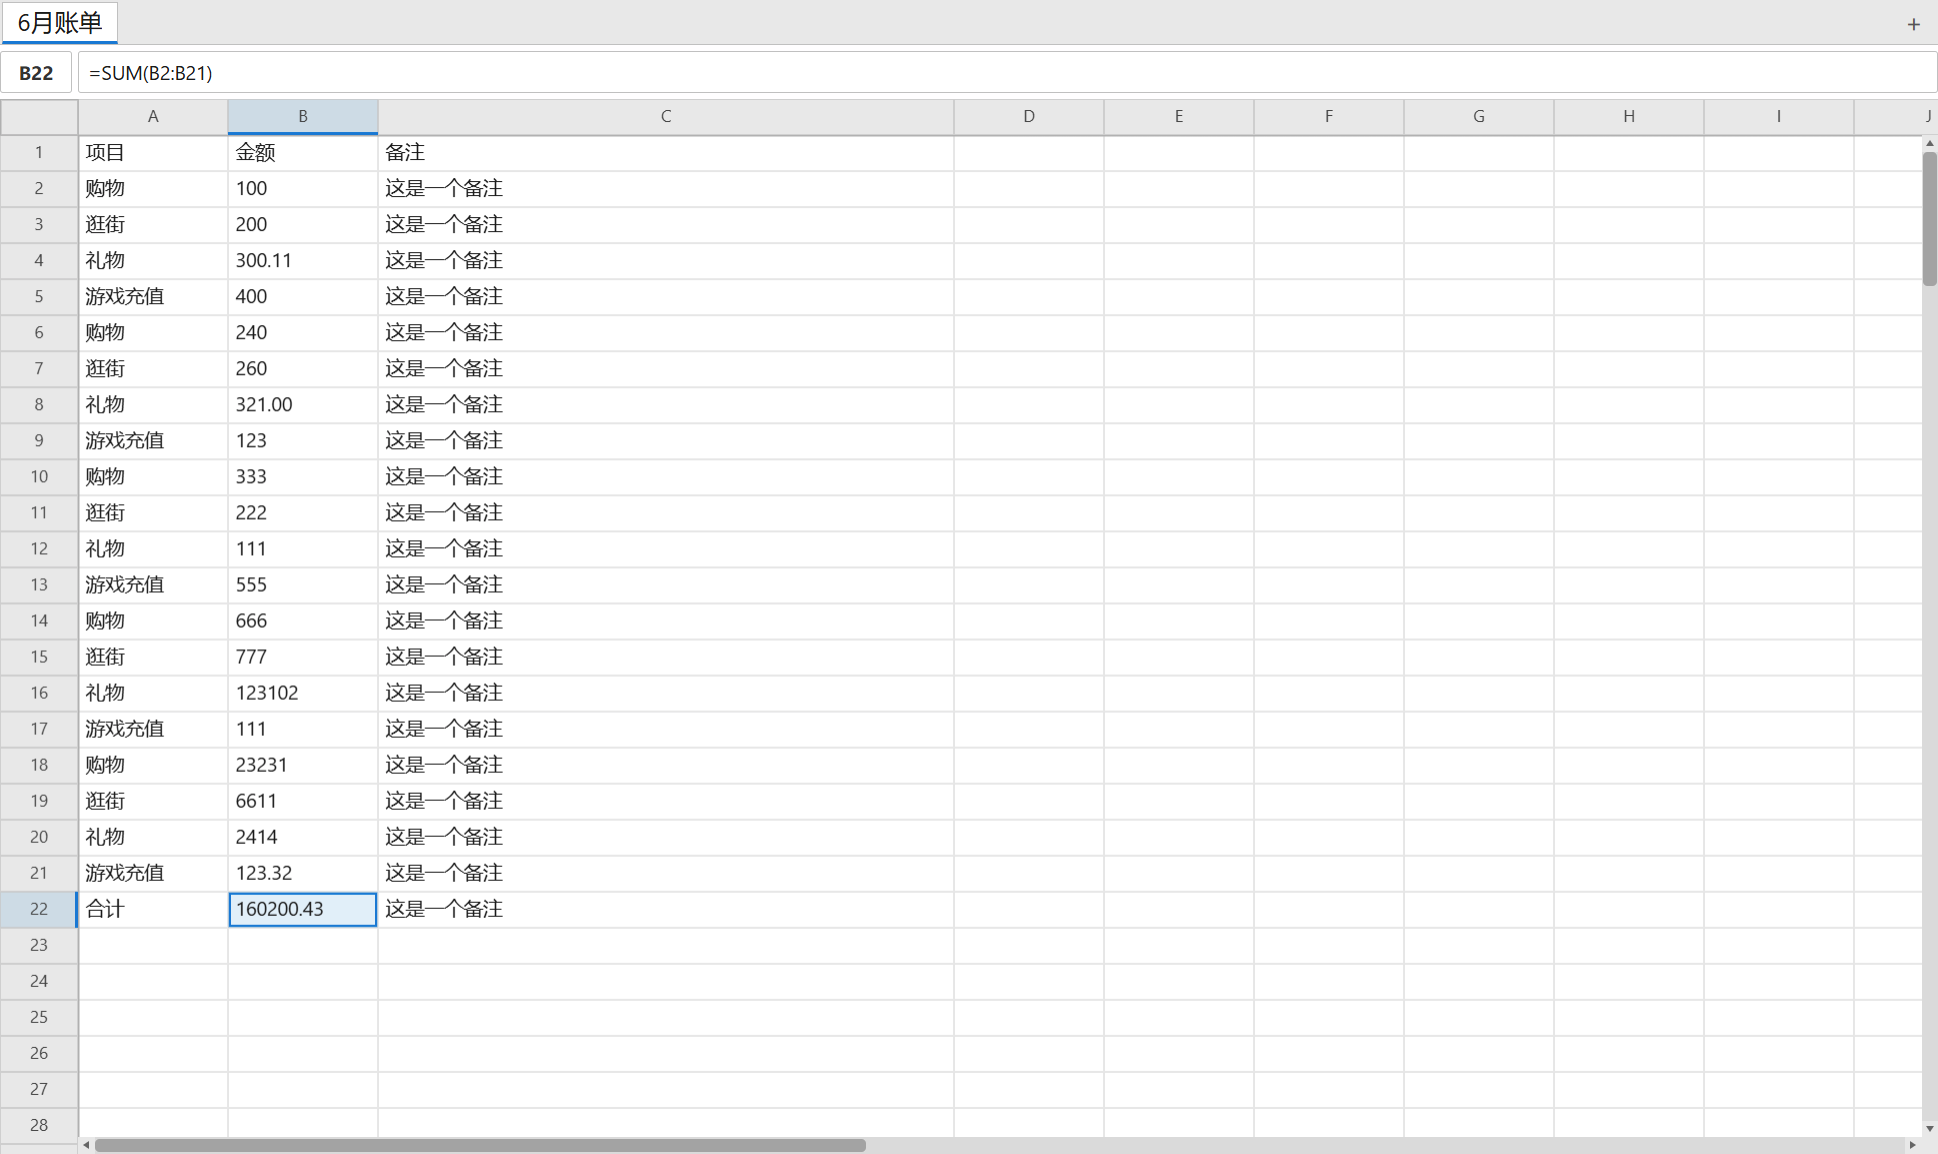
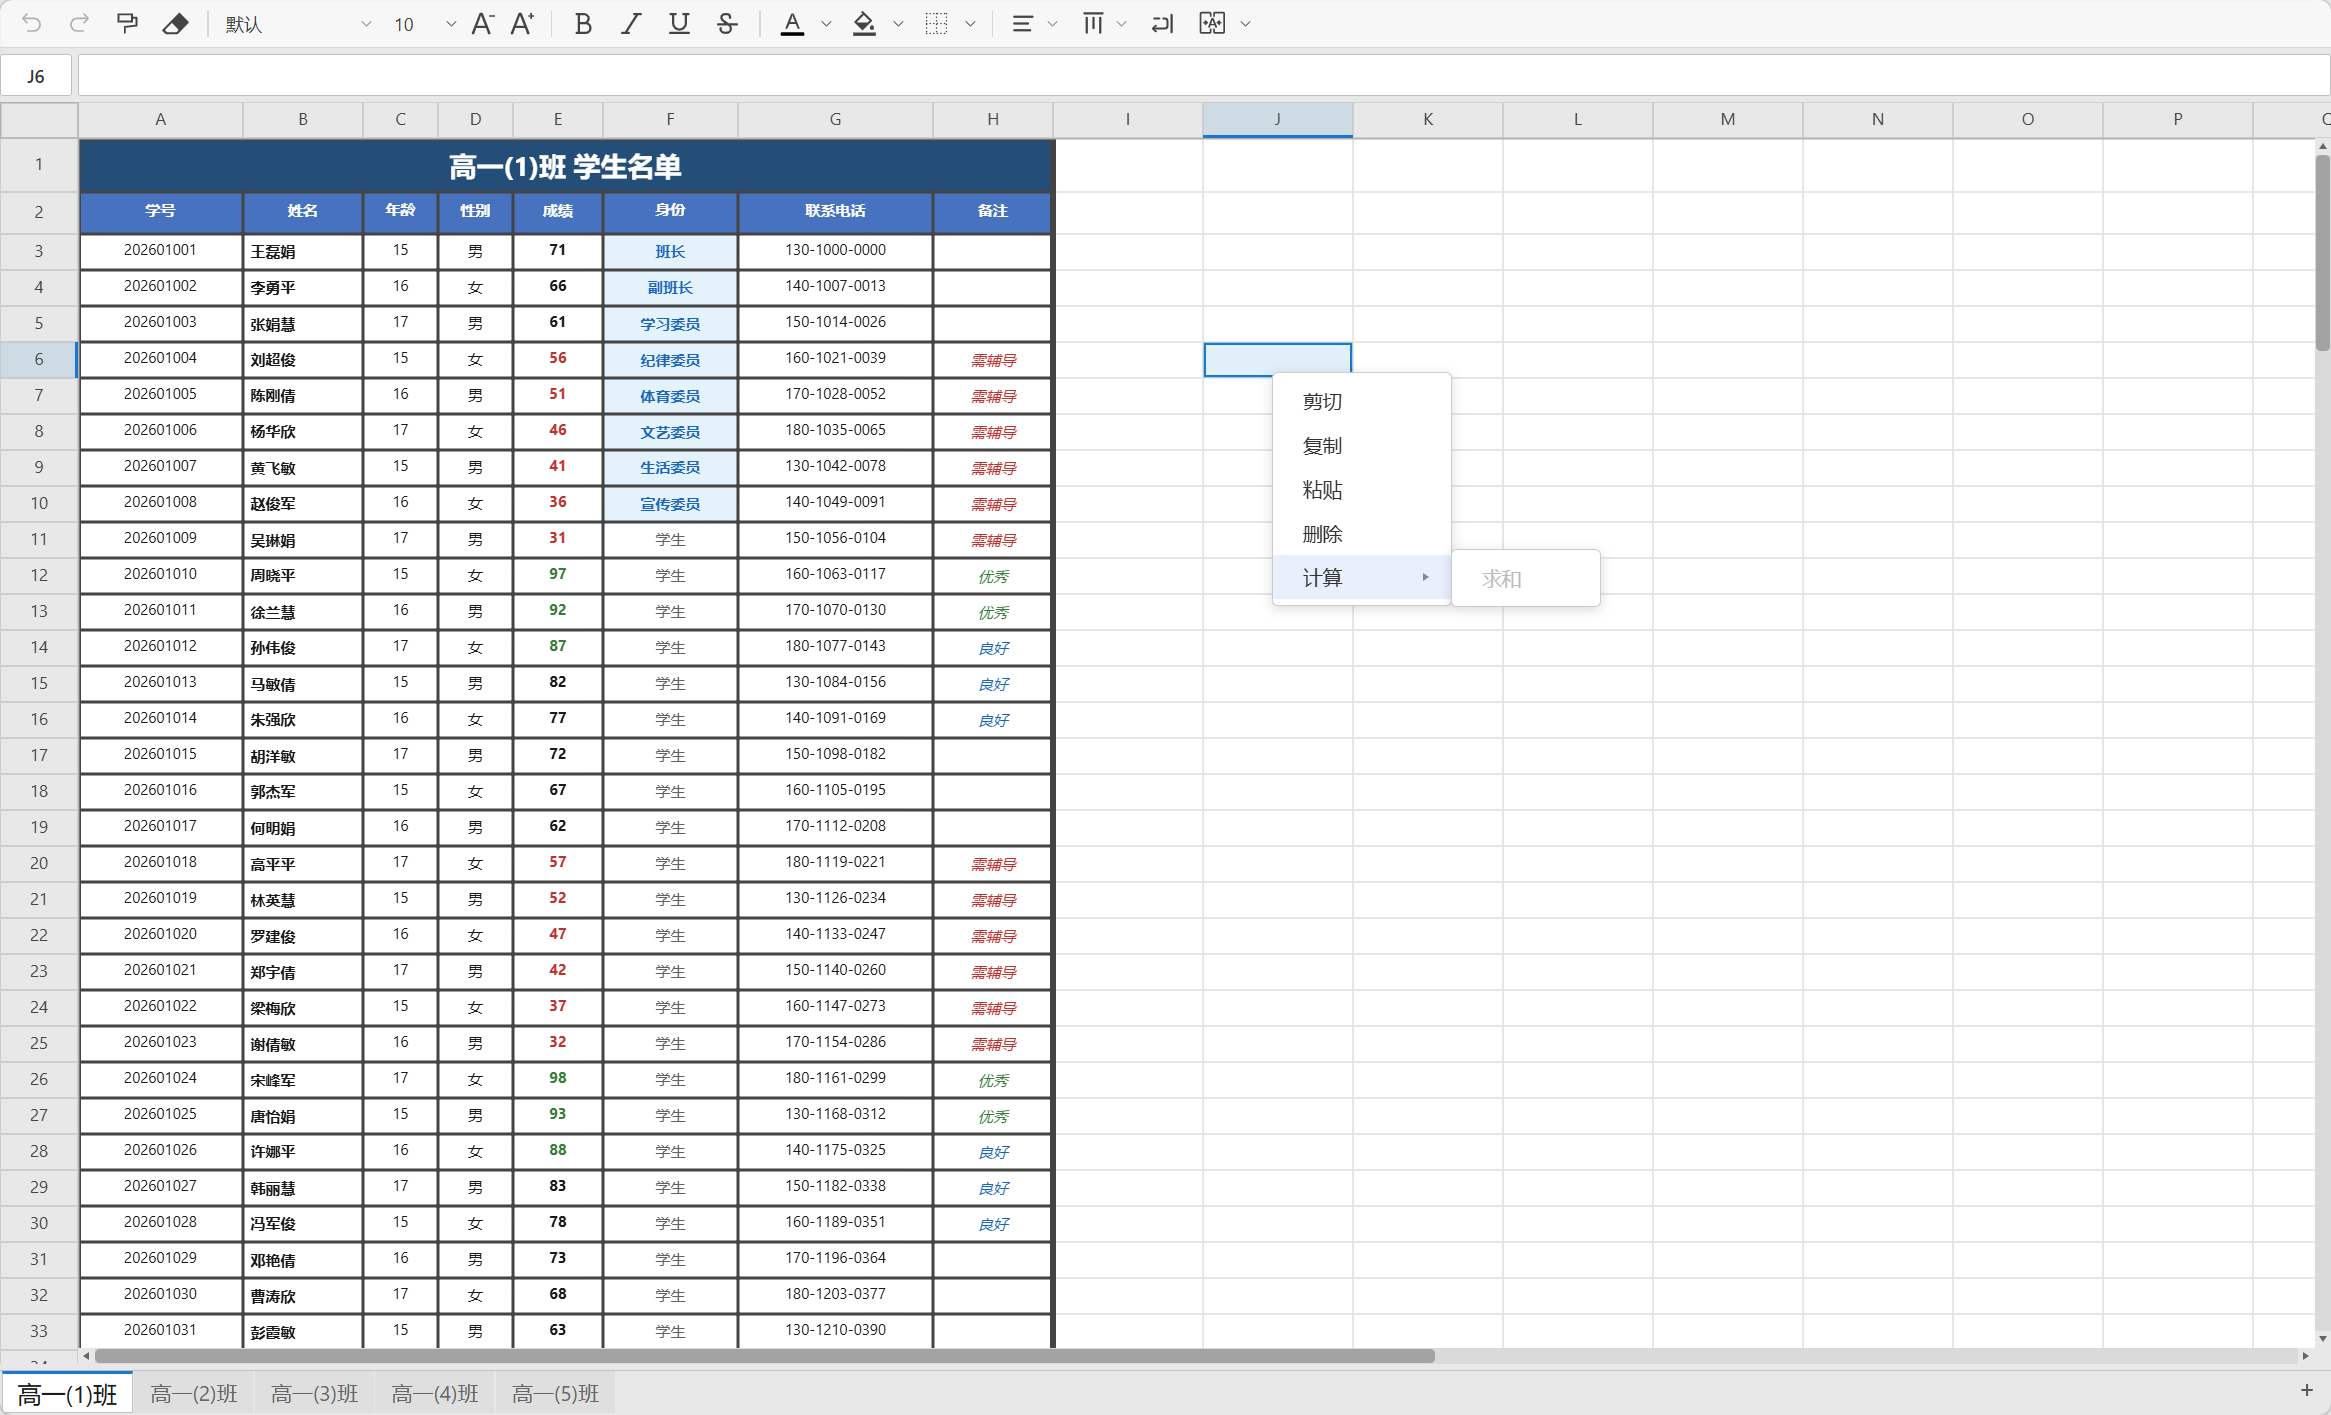
fix(spreadsheet): 修复多项表格功能问题并优化默认示例
1. 修复清空单元格时丢失样式的问题
2. 修复合并单元格数据复制丢失的问题
3. 修复样式编辑时忽略合并单元格的问题
4. 优化默认示例为班级成绩表，添加预设数据与样式

diff --git a/src/App.vue b/src/App.vue
@@ -2,6 +2,10 @@
   <div class="app-container">
     <Spreadsheet
       v-model:data="myData"
+      :row-count="200"
+      :col-count="26"
+      theme="light"
+      locale="zh-CN"
     />
   </div>
 </template>
@@ -11,30 +15,212 @@ import { ref, watch, onMounted } from 'vue';
 import Spreadsheet from './components/spreader';
 
 onMounted(() => {
-  document.title = '小刀电子表格 | Xiaodao Spreader'
+  document.title = '小刀电子表格 | Xiaodao Spreader';
 });
 
-interface SheetModelData {
-  name: string;
-  cells: Record<string, { value: string; style?: Record<string, unknown> }>;
-  colWidths?: Record<number, number>;
-  rowHeights?: Record<number, number>;
+// ---- 表格范围常量 ----
+const FIRST_COL = 0;
+const LAST_COL = 7;
+const FIRST_ROW = 0; // 标题行
+const THICK = 2;
+const THIN = 1;
+const BORDER_COLOR = '#555';
+
+// ---- 边框生成函数：外边框粗、内边框细 ----
+function borderFor(col: number, row: number, lastRow: number): Record<string, unknown> {
+  return {
+    borderTopWidth: row === FIRST_ROW ? THICK : THIN,
+    borderBottomWidth: row === lastRow ? THICK : THIN,
+    borderLeftWidth: col === FIRST_COL ? THICK : THIN,
+    borderRightWidth: col === LAST_COL ? THICK : THIN,
+    borderColor: BORDER_COLOR,
+  };
 }
 
-const myData = ref<SheetModelData[]>([{
-  name: 'Sheet1',
-  cells: {
-    '0,0': { value: '姓名' }, '0,1': { value: '年龄' }, '0,2': { value: '性别' }, '0,3': { value: '职业' },
-    '0,4': { value: '城市' }, '0,5': { value: '电话' }, '0,6': { value: '邮箱' }, '0,7': { value: '备注' },
-    '1,0': { value: '张三' }, '2,0': { value: '李四' }, '3,0': { value: '王五' }, '4,0': { value: '赵六' },
-    '5,0': { value: '钱七' },
-    '1,1': { value: '25' }, '2,1': { value: '30' }, '3,1': { value: '28' }, '4,1': { value: '35' },
-    '5,1': { value: '22' },
-  },
-}]);
+// ---- 基础样式（不含边框） ----
+const titleBase = {
+  fontWeight: 'bold',
+  fontSize: 18,
+  color: '#ffffff',
+  backgroundColor: '#1f4e79',
+  textAlign: 'center',
+  verticalAlign: 'middle',
+} as const;
+
+const headerBase = {
+  fontWeight: 'bold',
+  fontSize: '13px',
+  color: '#ffffff',
+  backgroundColor: '#4472c4',
+  textAlign: 'center',
+  verticalAlign: 'center',
+} as const;
+
+const centerBase = {
+  textAlign: 'center',
+} as const;
+
+const scoreBase = {
+  textAlign: 'center',
+  fontWeight: 'bold',
+} as const;
+
+const excellentBase = {
+  textAlign: 'center',
+  fontWeight: 'bold',
+  color: '#2e7d32',
+} as const;
+
+const failBase = {
+  textAlign: 'center',
+  fontWeight: 'bold',
+  color: '#c62828',
+} as const;
+
+const leaderBase = {
+  textAlign: 'center',
+  fontWeight: 'bold',
+  color: '#1565c0',
+  backgroundColor: '#e3f2fd',
+} as const;
+
+const normalBase = {
+  textAlign: 'center',
+  color: '#616161',
+} as const;
+
+const avgBase = {
+  textAlign: 'center',
+  fontWeight: 'bold',
+  fontSize: '13px',
+  backgroundColor: '#fff2cc',
+} as const;
+
+const nameBase = {
+  fontWeight: 'bold',
+} as const;
+
+// ---- 数据生成 ----
+const classNames = ['高一(1)班', '高一(2)班', '高一(3)班', '高一(4)班', '高一(5)班'];
+const leaderRoles = ['班长', '副班长', '学习委员', '纪律委员', '体育委员', '文艺委员', '生活委员', '宣传委员'];
+const surnames = ['王', '李', '张', '刘', '陈', '杨', '黄', '赵', '吴', '周', '徐', '孙', '马', '朱', '胡', '郭', '何', '高', '林', '罗', '郑', '梁', '谢', '宋', '唐', '许', '韩', '冯', '邓', '曹', '彭', '曾', '肖', '田', '董', '袁', '潘', '于', '蒋', '蔡'];
+const givenNames = ['伟', '芳', '娜', '敏', '静', '丽', '强', '磊', '军', '洋', '勇', '艳', '杰', '娟', '涛', '明', '超', '霞', '平', '刚', '桂', '英', '华', '慧', '建', '飞', '鹏', '宇', '俊', '婷', '梅', '琳', '斌', '倩', '晓', '宁', '峰', '兰', '欣', '怡'];
+
+function pick<T>(arr: T[], i: number): T {
+  return arr[i % arr.length]!;
+}
+
+function scoreFor(seed: number): number {
+  const r = (seed * 137 + 41) % 71;
+  return 30 + r;
+}
+
+function buildSheet(classIdx: number) {
+  const className = classNames[classIdx]!;
+  const studentCount = 32;
+  const avgRow = studentCount + 2; // row 34
+  const lastRow = avgRow;
+  const cells: Record<string, { value: string; style?: Record<string, unknown> }> = {};
+
+  // Row 0: 标题行（合并 A1:H1）
+  cells['0,0'] = { value: `${className} 学生名单`, style: { ...titleBase, ...borderFor(0, 0, lastRow), borderRightWidth: THICK } };
+
+  // Row 1: 表头
+  const headers = ['学号', '姓名', '年龄', '性别', '成绩', '身份', '联系电话', '备注'];
+  for (let c = 0; c < 8; c++) {
+    cells[`${c},1`] = { value: headers[c]!, style: { ...headerBase, ...borderFor(c, 1, lastRow) } };
+  }
+
+  // Rows 2 ~ 33: 学生数据
+  for (let i = 0; i < studentCount; i++) {
+    const row = i + 2;
+    const seed = classIdx * 100 + i;
+
+    // 学号 (col 0)
+    const sno = `2026${String(classIdx + 1).padStart(2, '0')}${String(i + 1).padStart(3, '0')}`;
+    cells[`0,${row}`] = { value: sno, style: { ...centerBase, ...borderFor(0, row, lastRow) } };
+
+    // 姓名 (col 1)
+    const name = `${pick(surnames, seed)}${pick(givenNames, seed * 3 + 7)}${pick(givenNames, seed * 5 + 13)}`;
+    cells[`1,${row}`] = { value: name, style: { ...nameBase, ...borderFor(1, row, lastRow) } };
+
+    // 年龄 (col 2)
+    const age = 15 + (seed % 3);
+    cells[`2,${row}`] = { value: String(age), style: { ...centerBase, ...borderFor(2, row, lastRow) } };
+
+    // 性别 (col 3)
+    const gender = seed % 2 === 0 ? '男' : '女';
+    cells[`3,${row}`] = { value: gender, style: { ...centerBase, ...borderFor(3, row, lastRow) } };
+
+    // 成绩 (col 4)
+    const score = scoreFor(seed);
+    let sBase: Record<string, unknown>;
+    if (score >= 85) sBase = { ...excellentBase };
+    else if (score < 60) sBase = { ...failBase };
+    else sBase = { ...scoreBase };
+    cells[`4,${row}`] = { value: String(score), style: { ...sBase, ...borderFor(4, row, lastRow) } };
+
+    // 身份 (col 5)
+    if (i < leaderRoles.length) {
+      cells[`5,${row}`] = { value: leaderRoles[i]!, style: { ...leaderBase, ...borderFor(5, row, lastRow) } };
+    } else {
+      cells[`5,${row}`] = { value: '学生', style: { ...normalBase, ...borderFor(5, row, lastRow) } };
+    }
+
+    // 联系电话 (col 6)
+    const phone = `1${3 + (seed % 6)}0-${String(1000 + seed * 7).slice(-4)}-${String(10000 + seed * 13).slice(-4)}`;
+    cells[`6,${row}`] = { value: phone, style: { ...centerBase, ...borderFor(6, row, lastRow) } };
+
+    // 备注 (col 7)
+    let note = '';
+    let noteColor = '#757575';
+    if (score >= 90) {
+      note = '优秀';
+      noteColor = '#2e7d32';
+    } else if (score >= 75) {
+      note = '良好';
+      noteColor = '#1565c0';
+    } else if (score < 60) {
+      note = '需辅导';
+      noteColor = '#c62828';
+    }
+    cells[`7,${row}`] = {
+      value: note,
+      style: { textAlign: 'center', fontStyle: 'italic', color: noteColor, ...borderFor(7, row, lastRow) },
+    };
+  }
+
+  // Row 34: 平均分行
+  cells[`0,${avgRow}`] = { value: '', style: { ...avgBase, ...borderFor(0, avgRow, lastRow) } };
+  cells[`1,${avgRow}`] = { value: '平均分', style: { ...avgBase, ...borderFor(1, avgRow, lastRow) } };
+  cells[`2,${avgRow}`] = { value: '', style: { ...avgBase, ...borderFor(2, avgRow, lastRow) } };
+  cells[`3,${avgRow}`] = { value: '', style: { ...avgBase, ...borderFor(3, avgRow, lastRow) } };
+
+  let total = 0;
+  for (let i = 0; i < studentCount; i++) {
+    total += scoreFor(classIdx * 100 + i);
+  }
+  const avg = (total / studentCount).toFixed(1);
+  cells[`4,${avgRow}`] = { value: avg, style: { ...avgBase, color: '#e65100', ...borderFor(4, avgRow, lastRow) } };
+  cells[`5,${avgRow}`] = { value: '', style: { ...avgBase, ...borderFor(5, avgRow, lastRow) } };
+  cells[`6,${avgRow}`] = { value: '', style: { ...avgBase, ...borderFor(6, avgRow, lastRow) } };
+  cells[`7,${avgRow}`] = { value: '', style: { ...avgBase, ...borderFor(7, avgRow, lastRow) } };
+
+  return {
+    name: className,
+    cells,
+    merges: {
+      '0,0': { startCol: 0, startRow: 0, endCol: 7, endRow: 0 },
+    },
+    colWidths: { 0: 110, 1: 80, 2: 50, 3: 50, 4: 60, 5: 90, 6: 130, 7: 80 },
+    rowHeights: { 0: 36, 1: 28 },
+  };
+}
+
+const myData = ref(classNames.map((_, i) => buildSheet(i)));
 
 watch(myData, (v) => {
-  console.log('myData changed:', JSON.stringify(v))
+  console.log('myData changed:', JSON.stringify(v));
 }, { deep: true });
 </script>
 

diff --git a/src/components/spreader/composables/undo-styles.ts b/src/components/spreader/composables/undo-styles.ts
@@ -235,6 +235,8 @@ export function createUndoStyles(
     let mixed = false;
     for (let c = sel.startCol; c <= sel.endCol && !mixed; c++) {
       for (let r = sel.startRow; r <= sel.endRow && !mixed; r++) {
+        const m = s.findMerge(c, r);
+        if (m && (c !== m.range.startCol || r !== m.range.startRow)) continue;
         const st = s.cells[s.cellKey(c, r)]?.style;
         const ff = typeof st?.fontFamily === 'string' ? st.fontFamily : '';
         if (first === undefined) first = ff;
@@ -251,6 +253,8 @@ export function createUndoStyles(
     let mixed = false;
     for (let c = sel.startCol; c <= sel.endCol && !mixed; c++) {
       for (let r = sel.startRow; r <= sel.endRow && !mixed; r++) {
+        const m = s.findMerge(c, r);
+        if (m && (c !== m.range.startCol || r !== m.range.startRow)) continue;
         const fsz = s.cellFontSize(c, r);
         if (first === undefined) first = fsz;
         else if (fsz !== first) mixed = true;
@@ -415,6 +419,8 @@ export function createUndoStyles(
     let mixed = false;
     for (let c = sel.startCol; c <= sel.endCol && !mixed; c++) {
       for (let r = sel.startRow; r <= sel.endRow && !mixed; r++) {
+        const m = s.findMerge(c, r);
+        if (m && (c !== m.range.startCol || r !== m.range.startRow)) continue;
         const st = s.cells[s.cellKey(c, r)]?.style;
         const v = Boolean(st?.[prop]);
         if (first === undefined) first = v;
@@ -490,6 +496,8 @@ export function createUndoStyles(
     let mixed = false;
     for (let c = sel.startCol; c <= sel.endCol && !mixed; c++) {
       for (let r = sel.startRow; r <= sel.endRow && !mixed; r++) {
+        const m = s.findMerge(c, r);
+        if (m && (c !== m.range.startCol || r !== m.range.startRow)) continue;
         const st = s.cells[s.cellKey(c, r)]?.style;
         const v = typeof st?.color === 'string' ? st.color : '';
         if (first === undefined) first = v;
@@ -506,6 +514,8 @@ export function createUndoStyles(
     let mixed = false;
     for (let c = sel.startCol; c <= sel.endCol && !mixed; c++) {
       for (let r = sel.startRow; r <= sel.endRow && !mixed; r++) {
+        const m = s.findMerge(c, r);
+        if (m && (c !== m.range.startCol || r !== m.range.startRow)) continue;
         const st = s.cells[s.cellKey(c, r)]?.style;
         const v = typeof st?.backgroundColor === 'string' ? st.backgroundColor : '';
         if (first === undefined) first = v;

diff --git a/src/components/spreader/composables/interactions.ts b/src/components/spreader/composables/interactions.ts
@@ -1543,6 +1543,11 @@ export function createInteractions(
               if (ri >= 0 && ri < s.rowCount && h >= 24) sh.rowHeights[ri] = h;
             }
           }
+          if (smd.merges) {
+            for (const [k, mr] of Object.entries(smd.merges)) {
+              sh.merges![k] = { ...mr };
+            }
+          }
           return sh;
         });
         if (so.sheets.value.length > 0) so.loadSheet(0);

diff --git a/src/components/spreader/composables/core-state.ts b/src/components/spreader/composables/core-state.ts
@@ -408,7 +408,12 @@ export function createCoreState(
     clearEvalCache();
     if (v === '' || v == null) {
       formulaDeps.clear(k);
-      delCell(k);
+      const st = cells[k]?.style ?? null;
+      if (st) {
+        cells[k] = { value: '', style: st };
+      } else {
+        delCell(k);
+      }
       formulaDeps.markDirty(k);
       return;
     }
